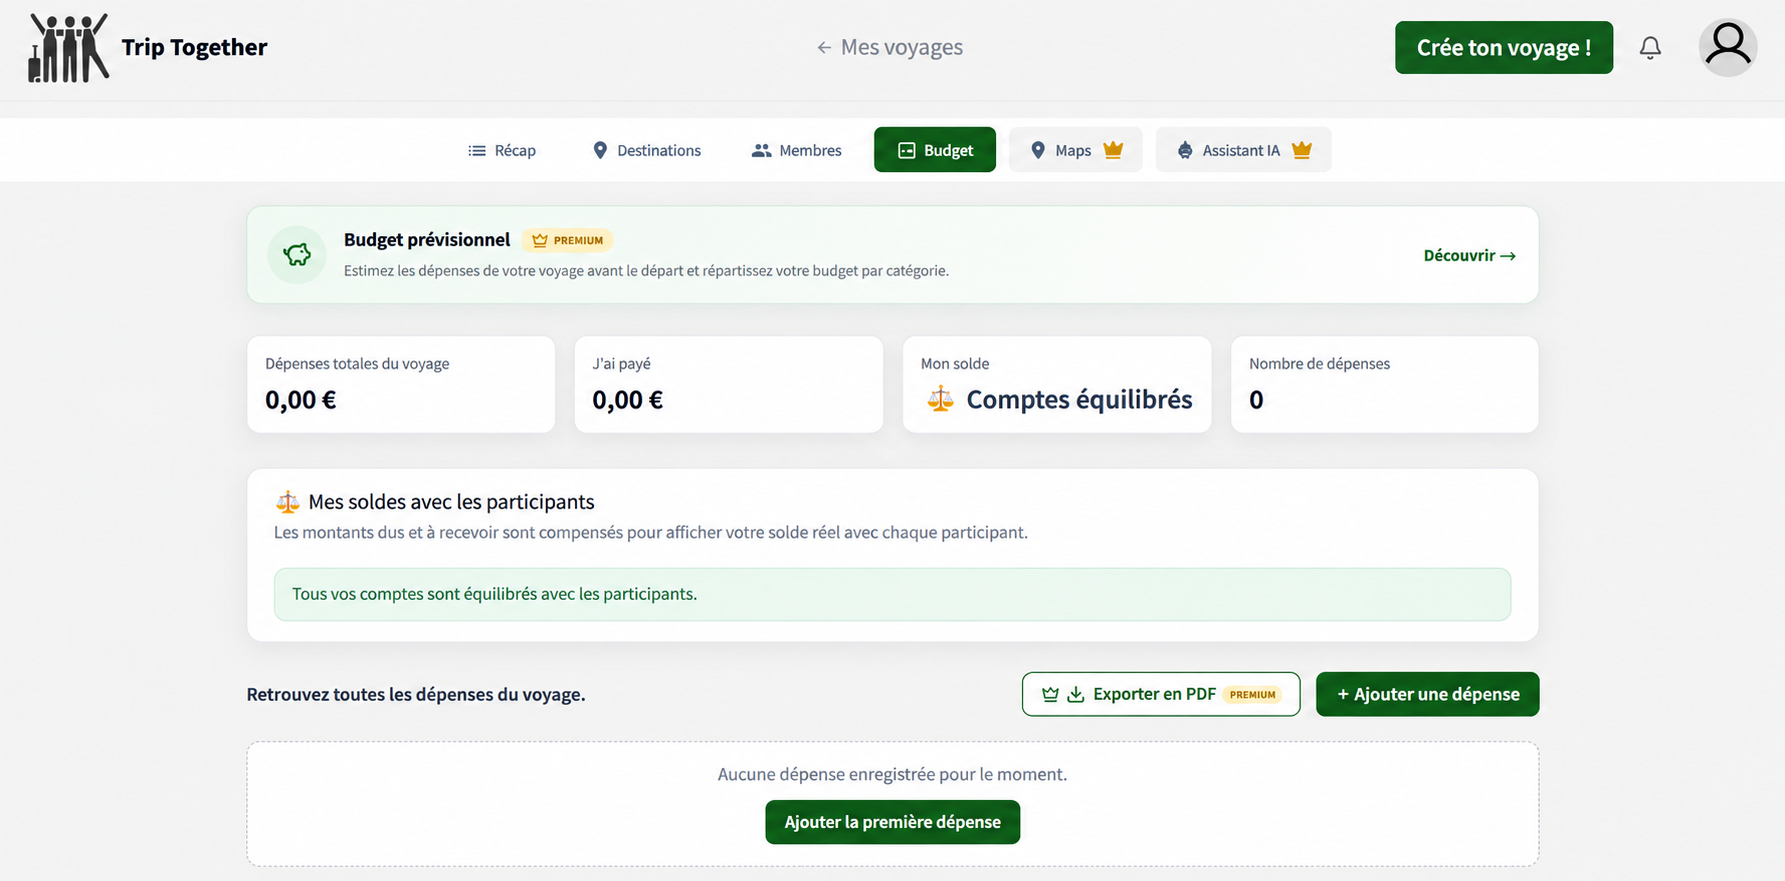
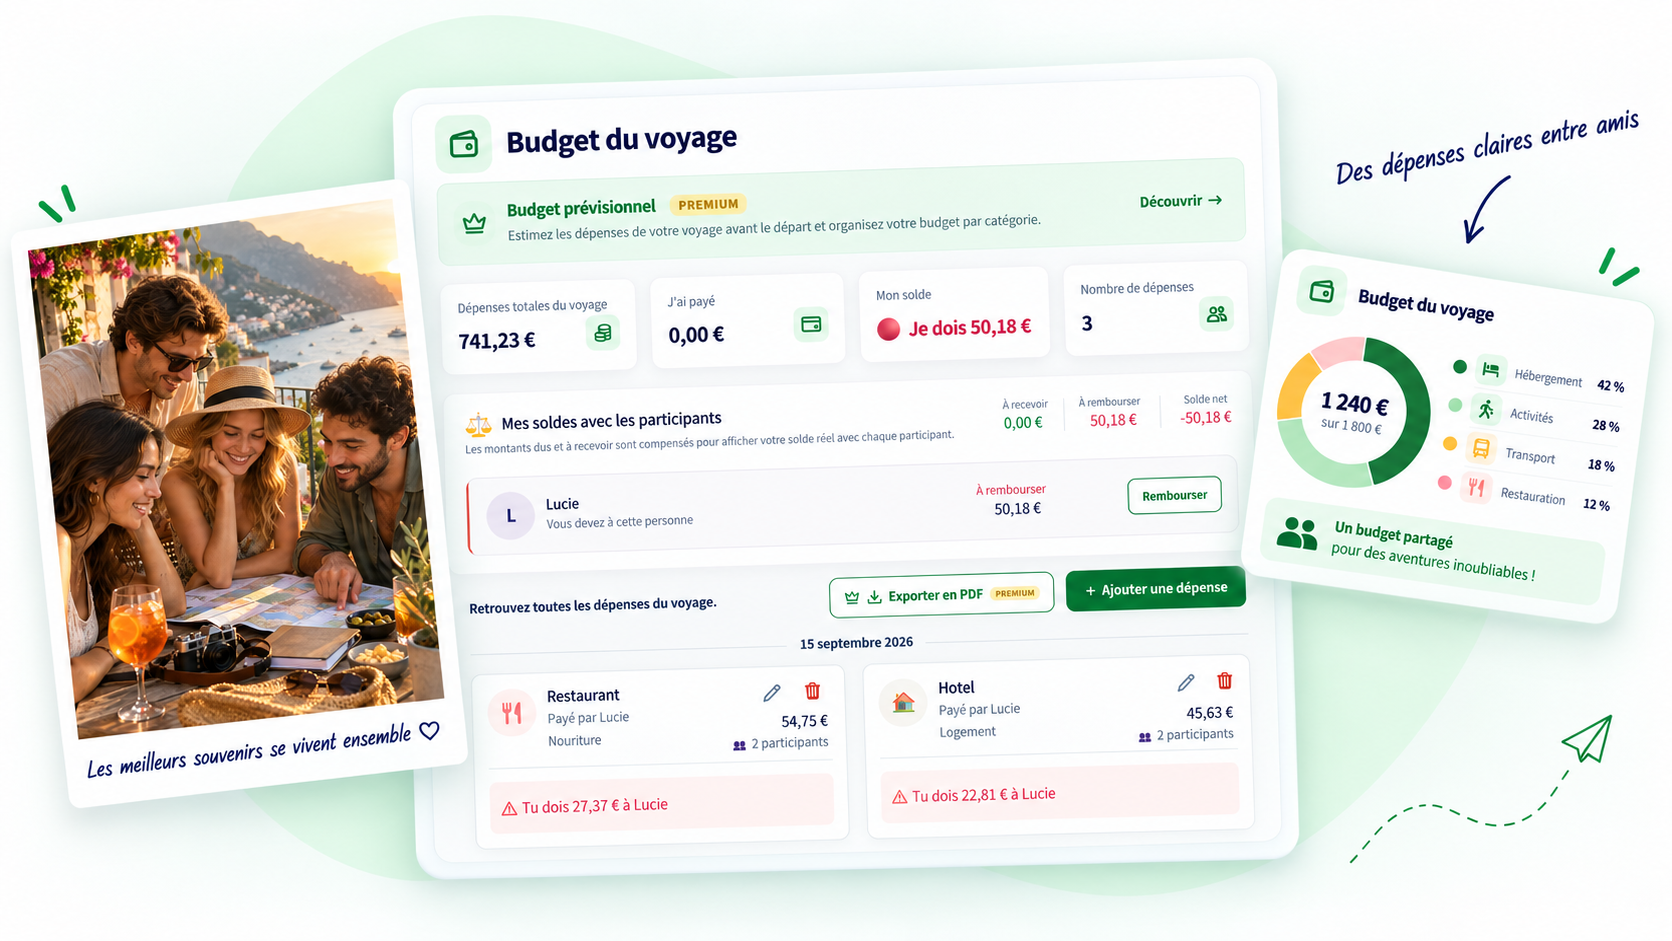
Ajout carrousel destinations sur la home

diff --git a/client/src/components/HomeFeatureCarousel.tsx b/client/src/components/HomeFeatureCarousel.tsx
@@ -45,11 +45,12 @@ const slides: FeatureSlide[] = [
   {
     id: "budget",
     label: "Budget",
-    mainImage: "/images/carrousel/budget-main.png",
-    leftImage: "/images/carrousel/budget-photo.png",
-    sideImage: "/images/carrousel/budget-side.png",
-    handwrittenLeft: "Les meilleurs souvenirs se vivent ensemble ♡",
-    handwrittenRight: "Des dépenses claires entre amis",
+    fullImage: "/images/carrousel/budget-main.png",
+    mainImage: "",
+    leftImage: "",
+    sideImage: "",
+    handwrittenLeft: "",
+    handwrittenRight: "",
   },
   {
     id: "reimbursements",
